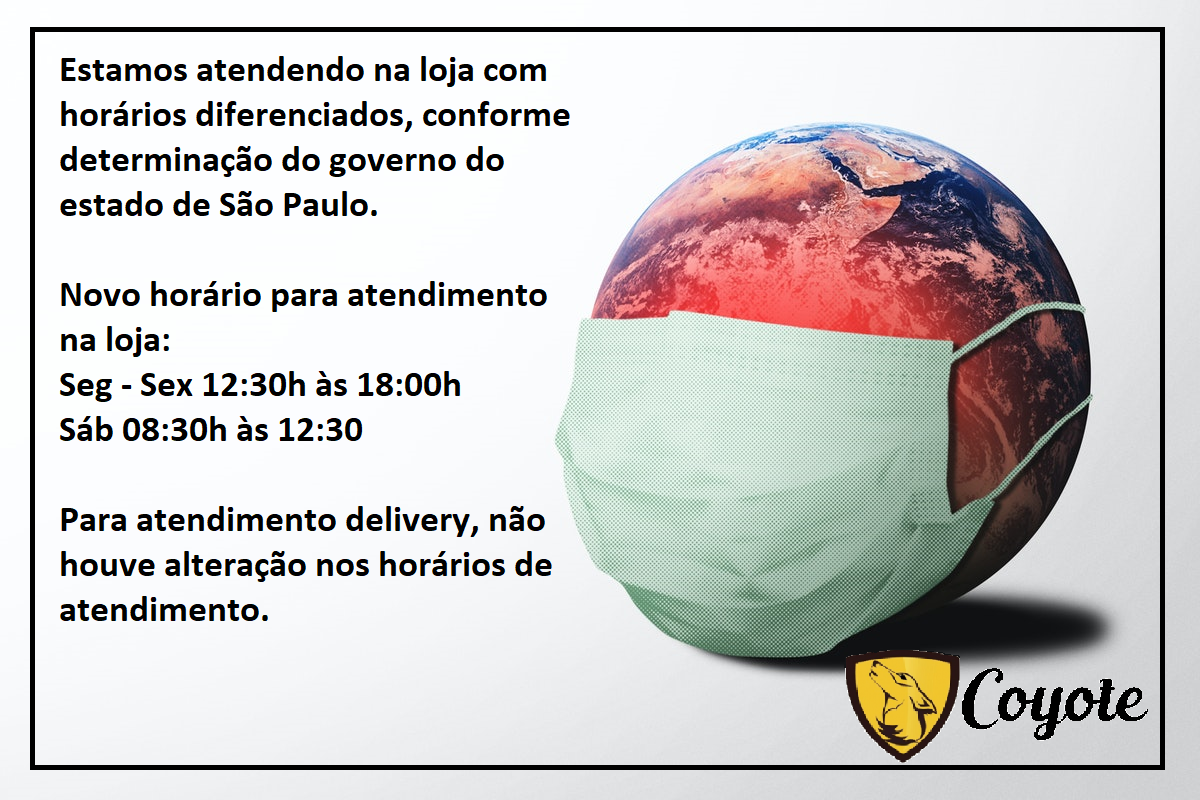
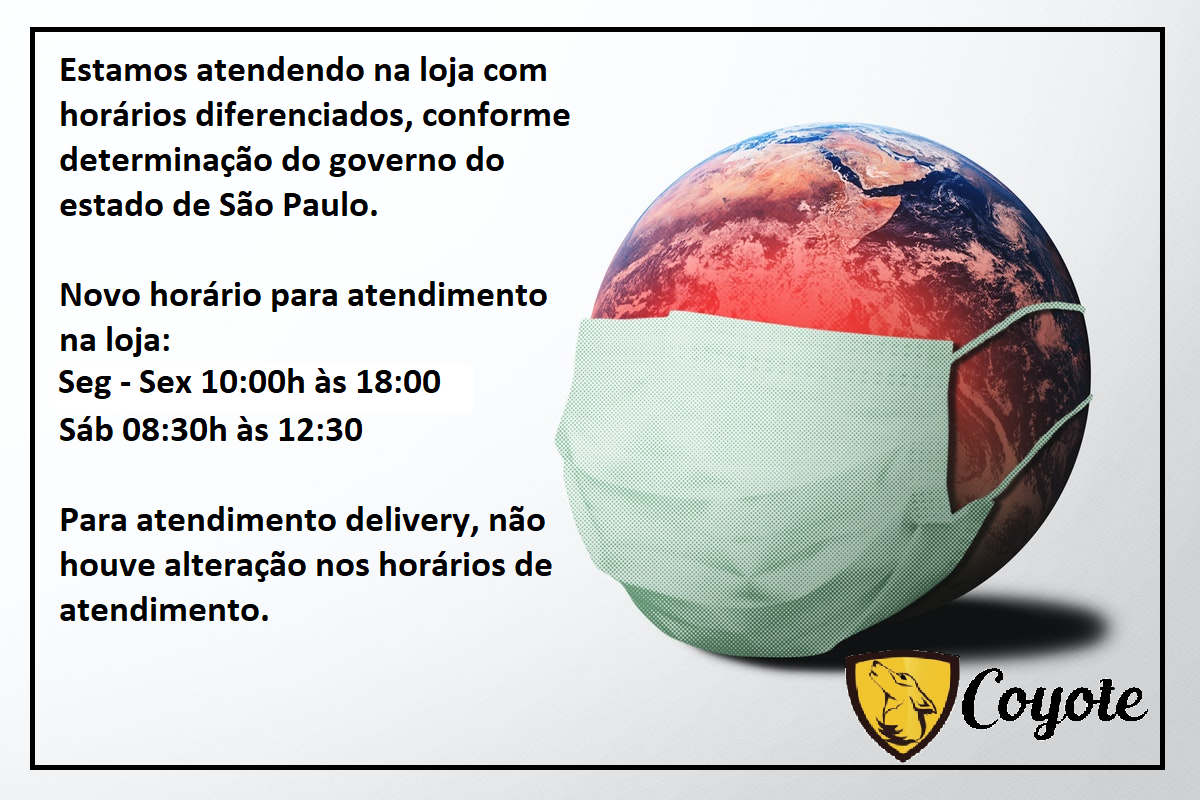
Site atualizado

Changed region(s): [[0.0308, 0.4375, 0.4008, 0.5]]

diff --git a/index.html b/index.html
@@ -42,7 +42,7 @@
 			<ul class="list-inline info">
 				<li><a href="tel:12-3632-5265"><span class="fa fa-phone"></span> (12) 3632-5265</a></li>
 				<li><a href="mailto:contato@coyotevistorias.com.br?subject=Contato%20Coyote%20Vistorias"><span class="fa fa-envelope"></span> contato@coyotevistorias.com.br</a></li>
-				<li><span class="fa fa-clock-o"></span> Seg - Sext 8:00 - 18:00 / Sáb 08:00 - 12:00</a></li>
+				<li><span class="fa fa-clock-o"></span> <span class="d-inline-block" tabindex="0" data-toggle="tooltip" title="COMUNICADO - COVID-19 (CORONAVÍRUS): Estamos atendendo na loja com horário reduzido: Seg - Sext 10:00 - 18:00 / Sáb 08:30 - 12:30">Seg - Sext 8:00 - 18:00 / Sáb 08:30 - 12:30 </span></a></li>
 			</ul>
 			<ul class="list-inline social_icon">
 				<li><a href="https://www.facebook.com/coyotevistorias/"><span class="fa fa-facebook"></span></a></li>
@@ -93,23 +93,22 @@
 					<h2>Quer mais informações?</h2>
 					<h2 class="second_heading">Entre em contato!</h2>
 				</div>
-				<form role="form" class="form-inline text-right col-md-6" action="php/envia_email.php" method="POST">
-				   <input type="hidden" name="recipient" value="contato@coyotevistorias.com.br"> 
-				   <input type="hidden" name="redirect" value="https://www.coyotevistorias.com.br"> 
+				<form role="form" class="form-inline text-right col-md-6" action="https://simple-form.com/contato@coyotevistorias.com.br" method="POST" onsubmit="Evento()">
+				   <input type="hidden" name="redirectURL" value="https://www.coyotevistorias.com.br"> 
 				   <input type="hidden" name="subject" value="Contato do Site"> 
-				   <input type="hidden" name="email" value="contato@coyotevistorias.com.br">
 						<div class="form-group">
 							<input type="text" class="form-control" id="name" name="name" placeholder="Nome" 
 							required oninvalid="this.setCustomValidity('Por favor, informe seu Nome.')" onchange="try{setCustomValidity('')}catch(e){}">
 						</div>
 						<div class="form-group">
-							<input type="email" class="form-control" id="email" name="email" placeholder="E-Mail"
+							<input type="email" class="form-control" id="email" name="replyTo" placeholder="E-Mail"
 							required oninvalid="this.setCustomValidity('Por favor, informe seu E-Mail.')" onchange="try{setCustomValidity('')}catch(e){}">
 						</div>
 						<div class="form-group">
-							<textarea class="form-control" rows="10" id="msg" name="comment" placeholder="Mensagem" required oninvalid="this.setCustomValidity('Por favor, digite sua mensagem.')" onchange="try{setCustomValidity('')}catch(e){}"></textarea>
+							<textarea class="form-control" rows="10" id="msg" name="message" placeholder="Mensagem" required oninvalid="this.setCustomValidity('Por favor, digite sua mensagem.')" onchange="try{setCustomValidity('')}catch(e){}"></textarea>
 						</div>
-				   <button type="submit" id="send-mail" class="btn submit_btn">Enviar</button>
+
+				   <button type="submit" id="send-mail" class="btn submit_btn" onclick='insereTexto()'>Enviar</button>
 			   </form>		
 			</div>
 		</div>
@@ -157,11 +156,17 @@
 		</p>
 		</div><!-- Footer bottom end -->
 	</footer><!-- Footer end -->
-<script>
-    function Evento(){
-        alert('Mensagem enviada com sucesso!')
-    }
-</script>
+
+	<script>
+		function Evento(){
+			alert('Mensagem enviada com sucesso!')
+		}
+	</script>
+	<!--
+	<script type="text/javascript">
+	function insereTexto()
+	{document.getElementById('divTeste').innerHTML = 'Mensagem enviada com sucesso';}
+	</script>-->
 	<!-- jQuery (necessary for Bootstrap's JavaScript plugins) -->
 	<script src="https://ajax.googleapis.com/ajax/libs/jquery/1.12.4/jquery.min.js"></script>
 	<!-- Include all compiled plugins (below), or include individual files as needed -->
